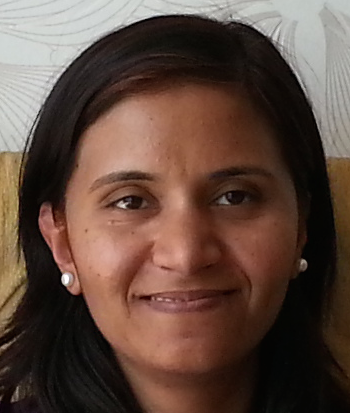
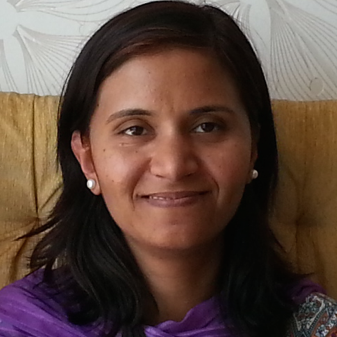
configuring emails and team pics

diff --git a/index.html b/index.html
@@ -97,7 +97,7 @@
       <span class="section-heading">Our Team</span>
       <span class="farista-section">
         <span class="farista-details">
-          <img src="img/babu.jpg" class="farista" />
+          <img src="img/babu.png" class="farista" />
           <span class="farista-name">Farista</span>
           <span class="farista-about">
             Farista with his deep knowledge of management and business drives Team Humble.
@@ -133,7 +133,7 @@
           </span>
         </span>
         <span class="team-member">
-          <img src="img/bhasinji.jpg" class="team-member-photo"/>
+          <img src="img/bhasinji.png" class="team-member-photo"/>
           <span class="team-member-name">Narinder Kumar Bhasin</span>
           <span class="team-member-desc">
             Former VP Axis Bank India. <br />
@@ -141,7 +141,7 @@
           </span>
         </span>
         <span class="team-member">
-          <img src="img/pooja.jpg" class="team-member-photo"/>
+          <img src="img/pooja.png" class="team-member-photo"/>
           <span class="team-member-name">Pooja Upreti</span>
           <span class="team-member-desc">
             Pooja is responsible for Project Management.
@@ -155,15 +155,14 @@
         Contact Us
       </div>
       <form id="contactus-form" class="contactus-form">
-        <input type="hidden" id="idstamp" name="idstamp" value="5h2w9+wFin9M5FEDg8wCOCwjuY7qlu0/fFCHy5Md6tk=" />
         <div class="contactus-details-section">
           <div class="contactus-inputs-section">
-            <input type="text" name="Field4" id="name" placeholder="Name" class="contactus-input"/>
-            <input type="text" name="Field6" id="email" placeholder="Email" class="contactus-input"/>
-            <input type="text" name="Field7" id="subject" placeholder="Subject" class="contactus-input"/>
+            <input type="text" name="name" placeholder="Name" class="contactus-input"/>
+            <input type="text" name="email" placeholder="Email" class="contactus-input"/>
+            <input type="text" name="subject" placeholder="Subject" class="contactus-input"/>
           </div>
           <div class="contactus-message-section">
-            <textarea name="Field9" id="message" placeholder="Message" class="contactus-message"></textarea>
+            <textarea name="message" placeholder="Message" class="contactus-message"></textarea>
           </div>
         </div>
         <div id="thankyou-section" class="thankyou-section">
@@ -192,7 +191,7 @@ function submitContactForm(event) {
   $('#contactus-btn').attr('disabled',true);
   $('#contactus-btn').addClass('contactus-input-disabled');
   $.ajax({
-    url:'https://jyotipuri.wufoo.com/forms/humble-site-form/',
+    url:'https://formspree.io/jyotipuri@gmail.com',
     type:'post',
     data:$('#contactus-form').serialize(),
     success:function(){
